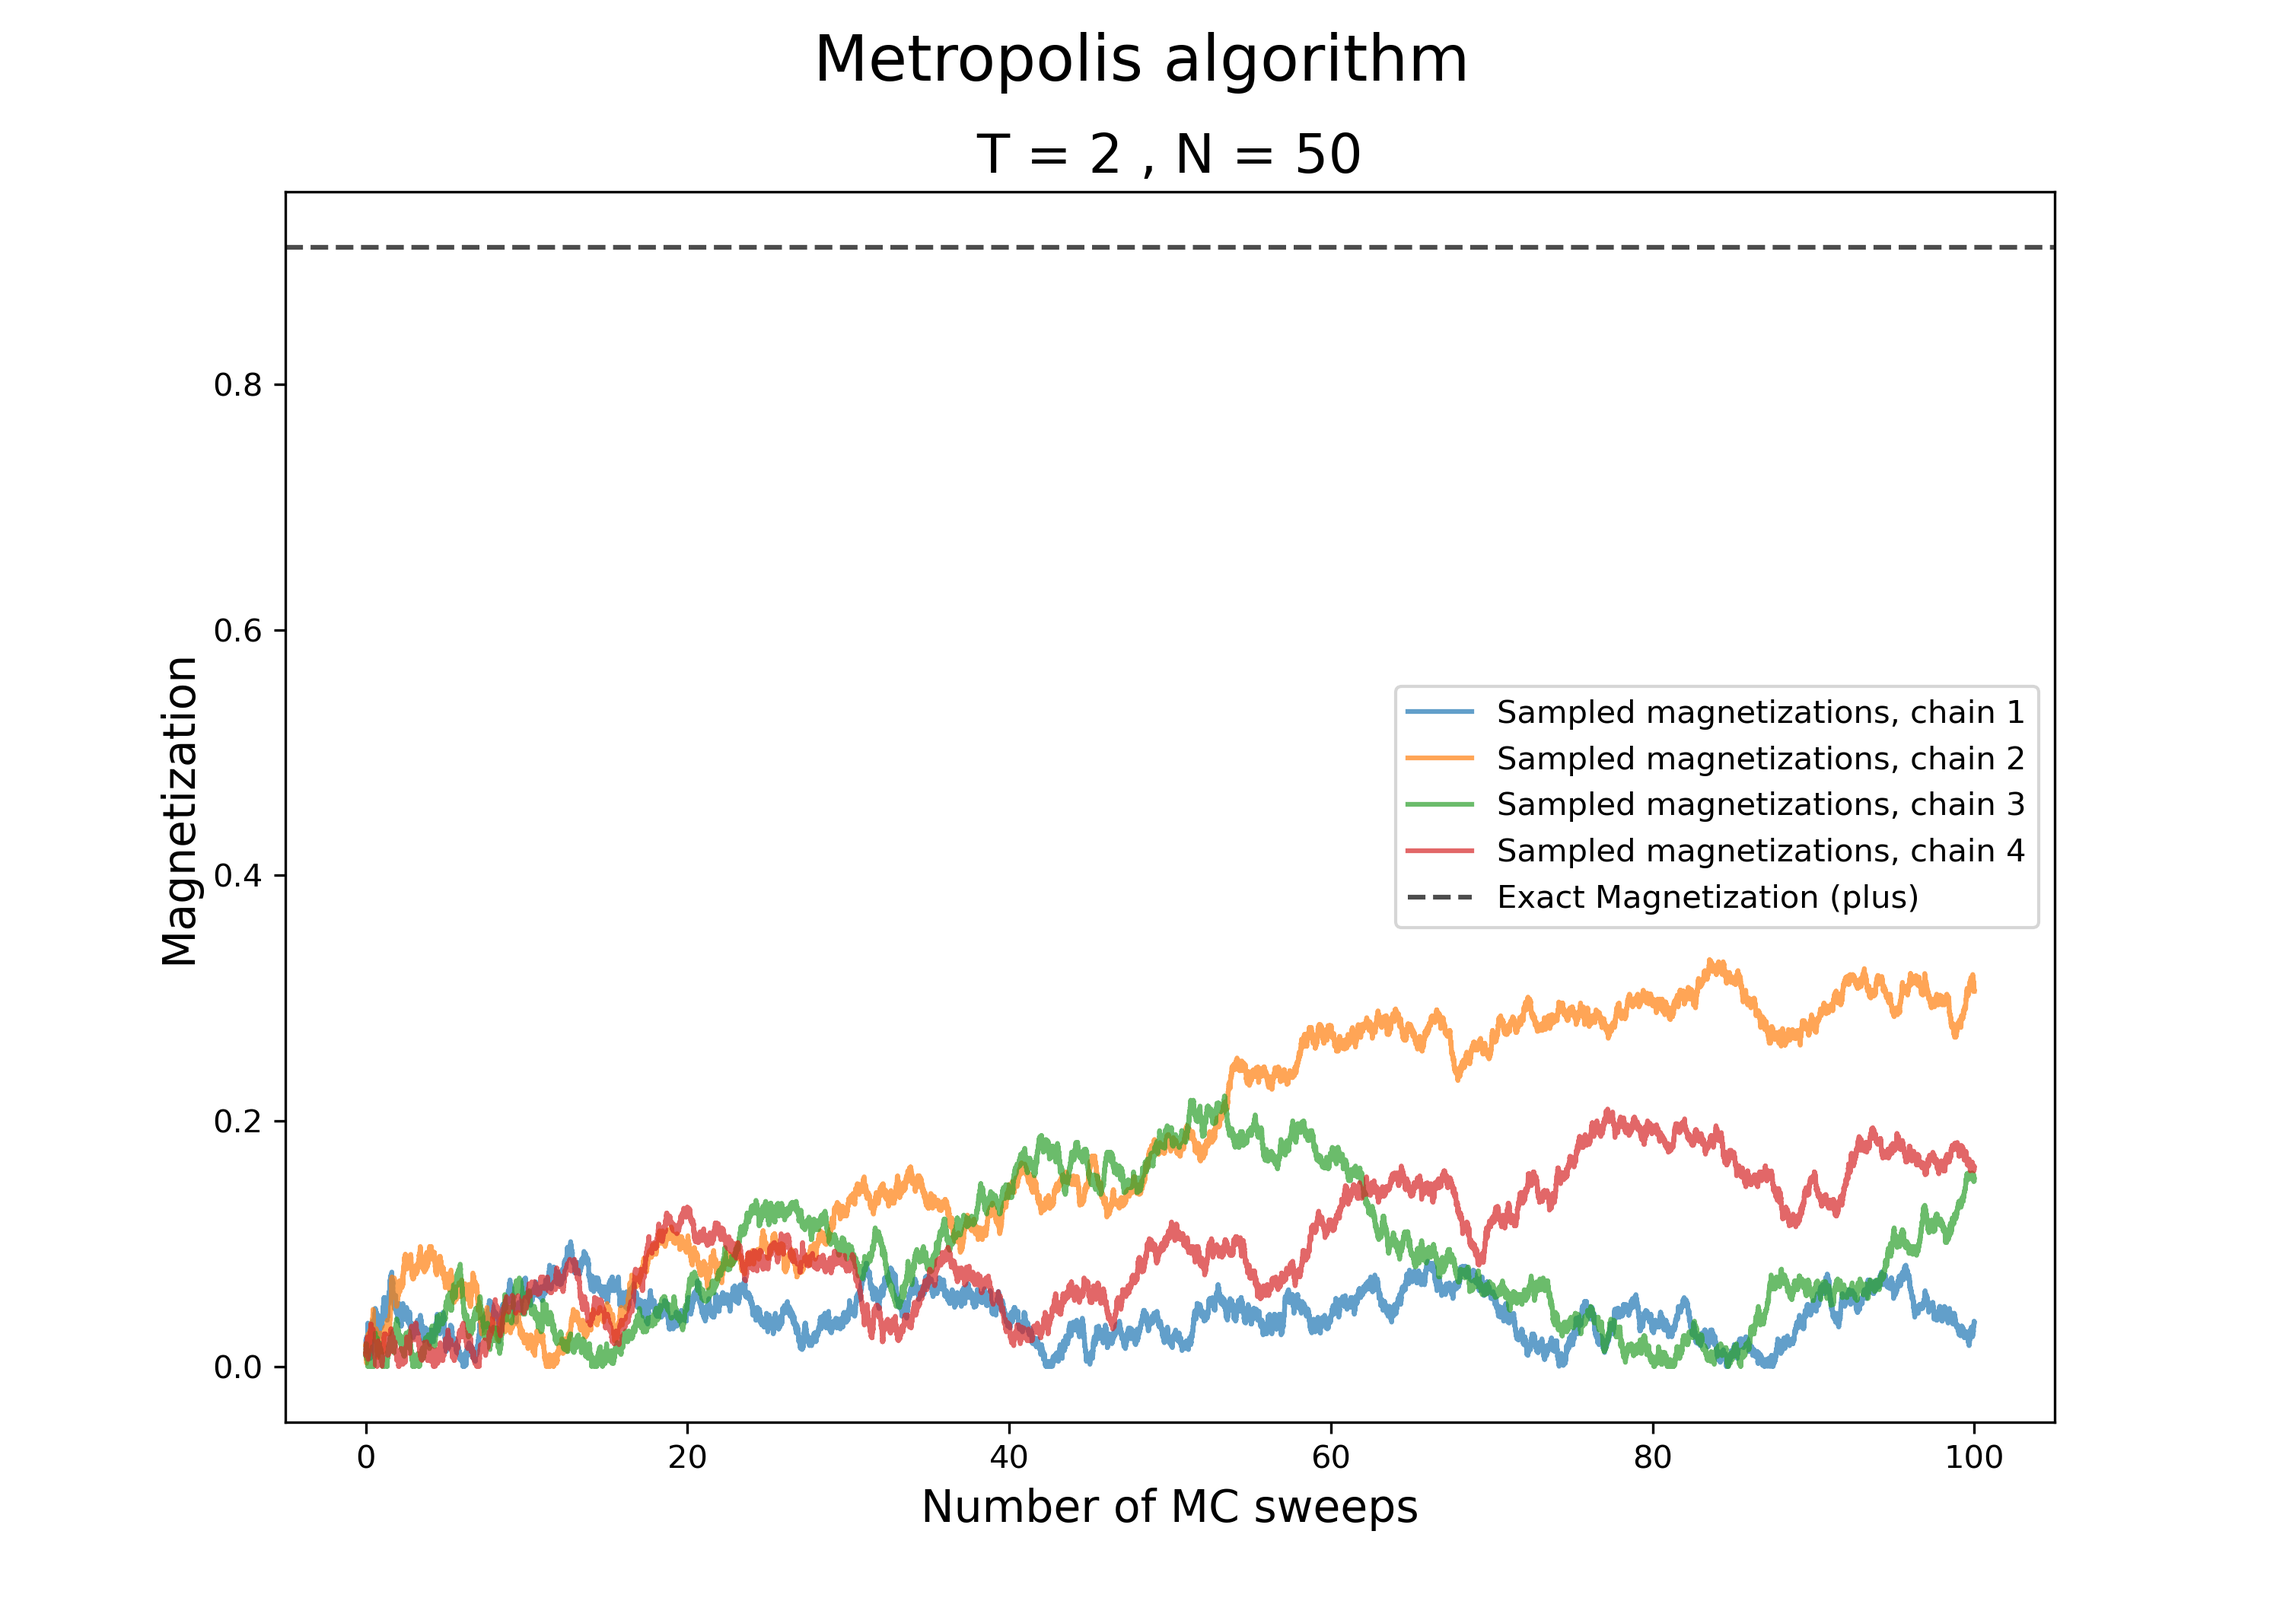
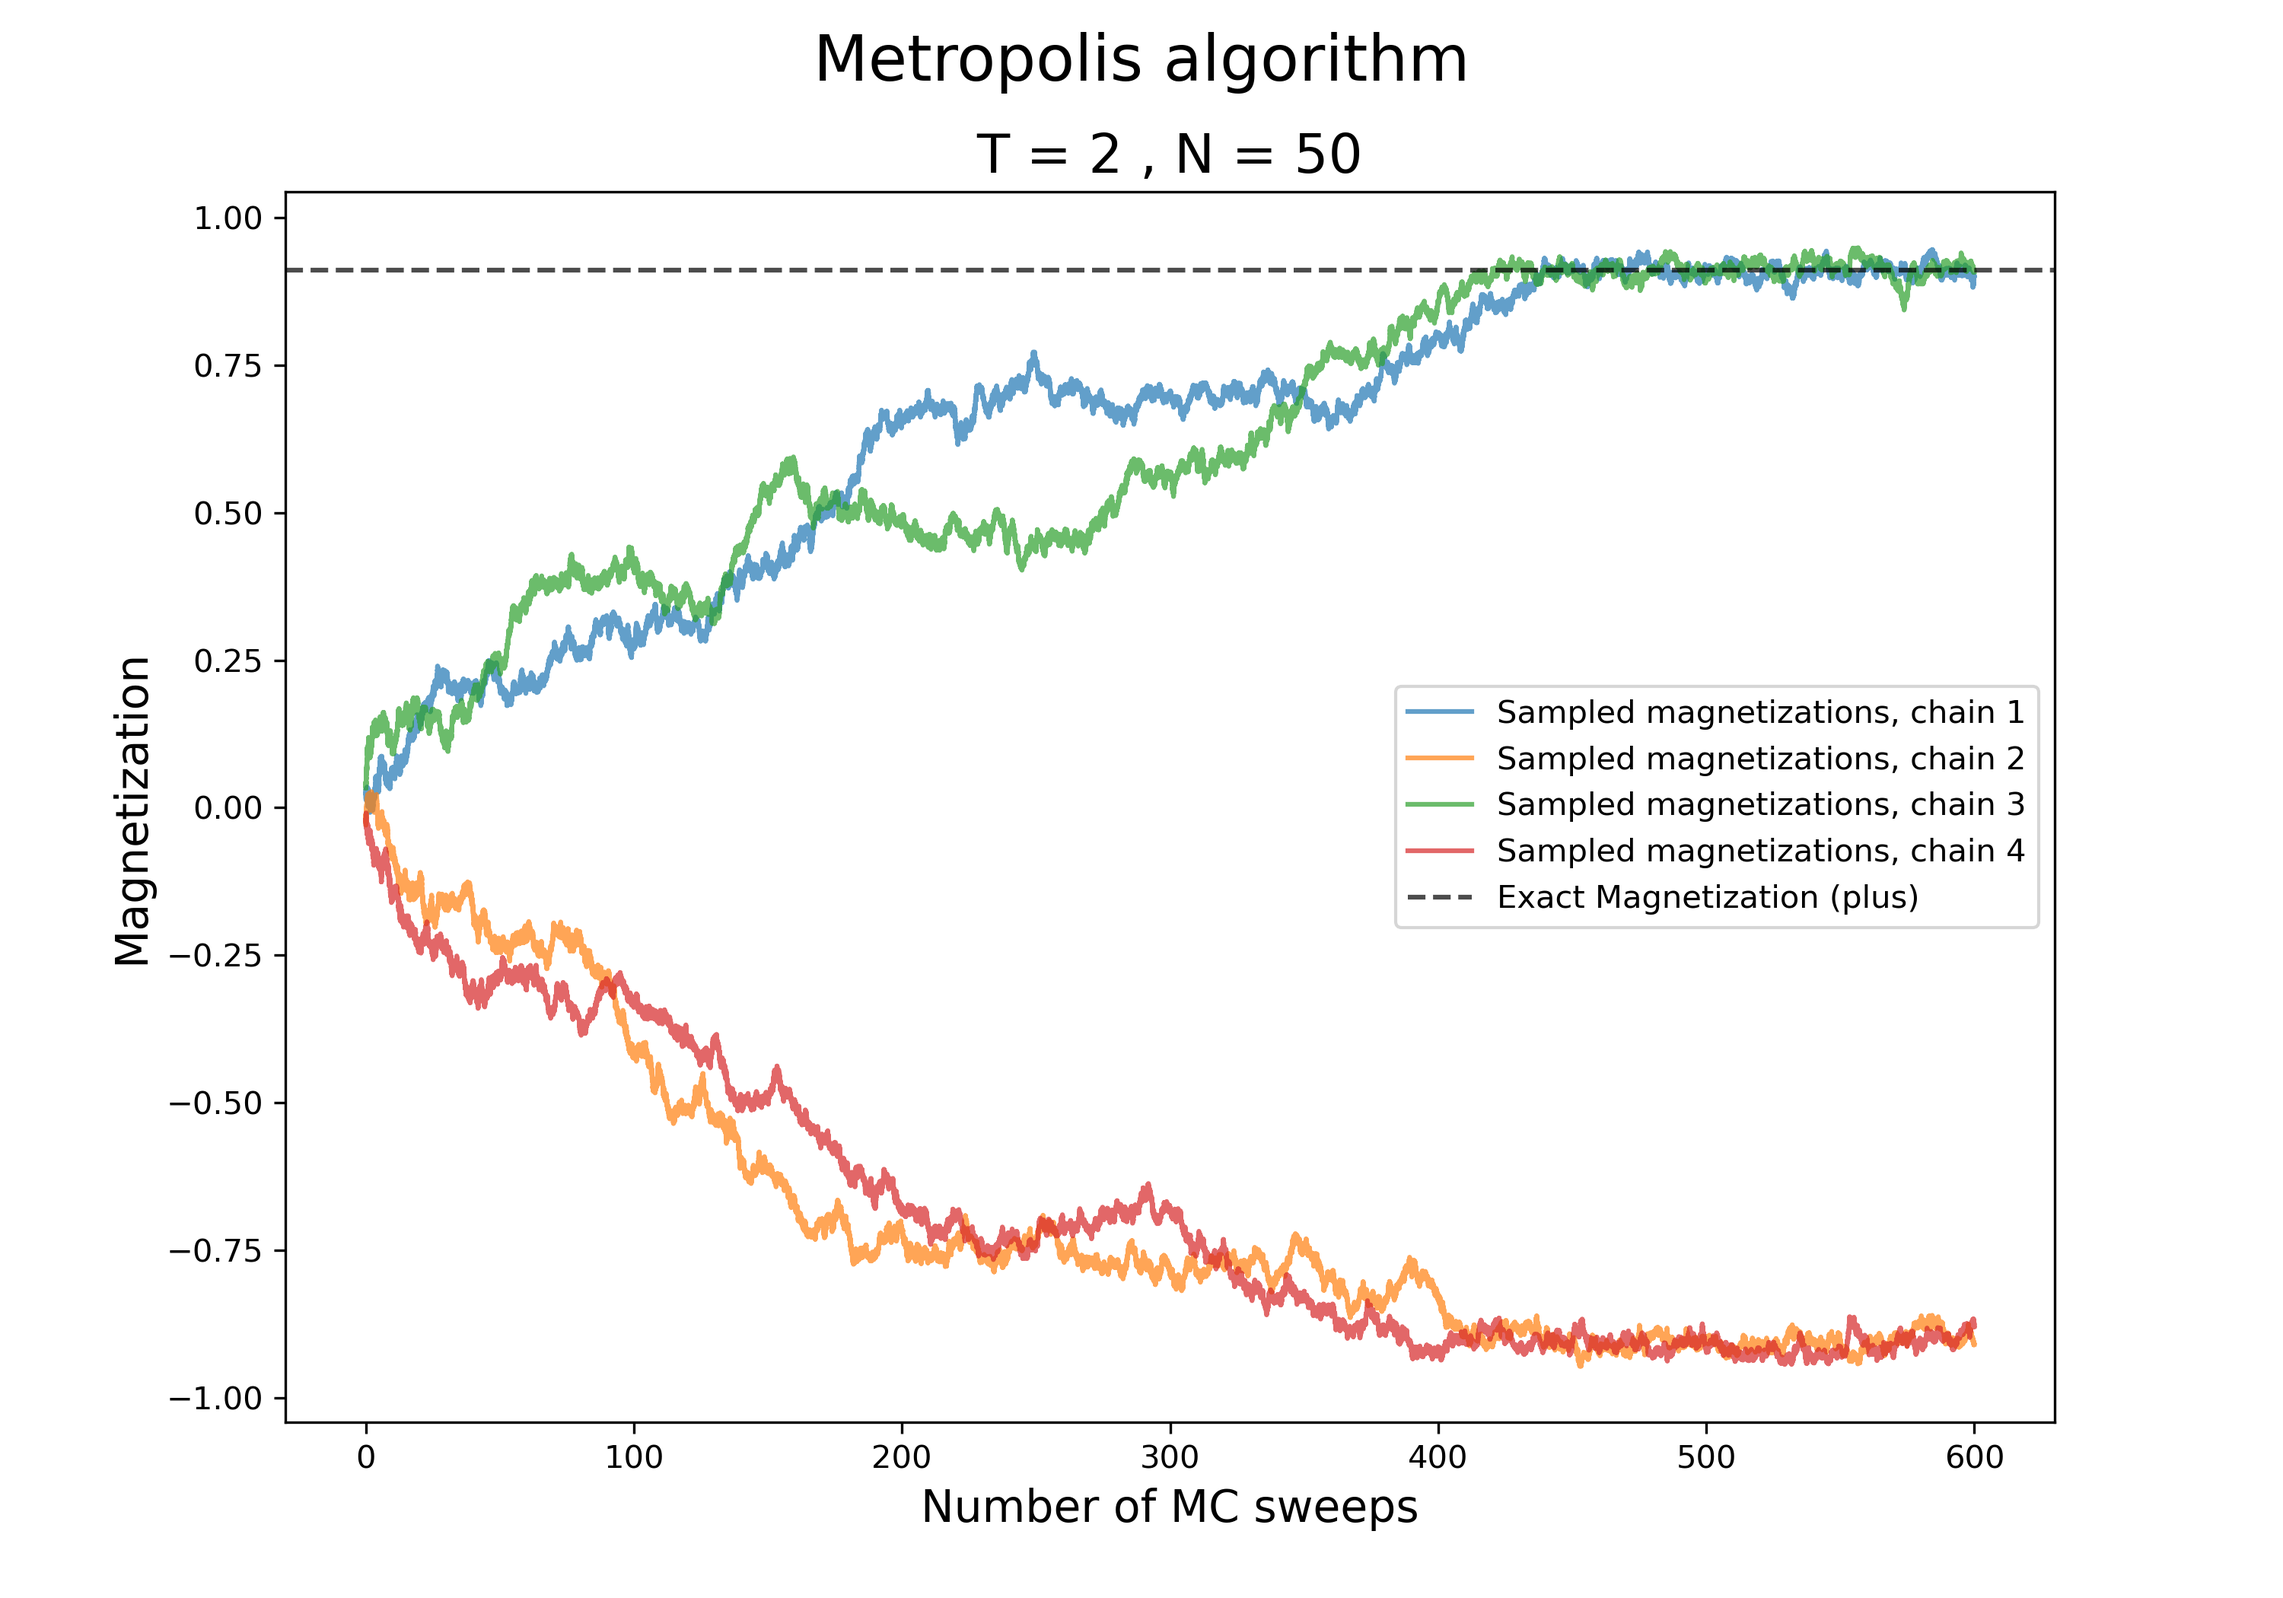
ex7-8

diff --git a/IsingModel.py b/IsingModel.py
@@ -468,7 +468,7 @@ class IsingModel:
                 for k in range(num_samples):
                     # 1 metropolis step
                     spins = self.metropolis_step(spins)
-                    m = np.abs(self.get_magnetization_1_conf(spins))
+                    m = (self.get_magnetization_1_conf(spins))
                     magnetizations[k] = m
                 lab = 'Sampled magnetizations, chain '+str(i+1)
                 ax.plot(sweeps, magnetizations, alpha=0.7, label=lab)
